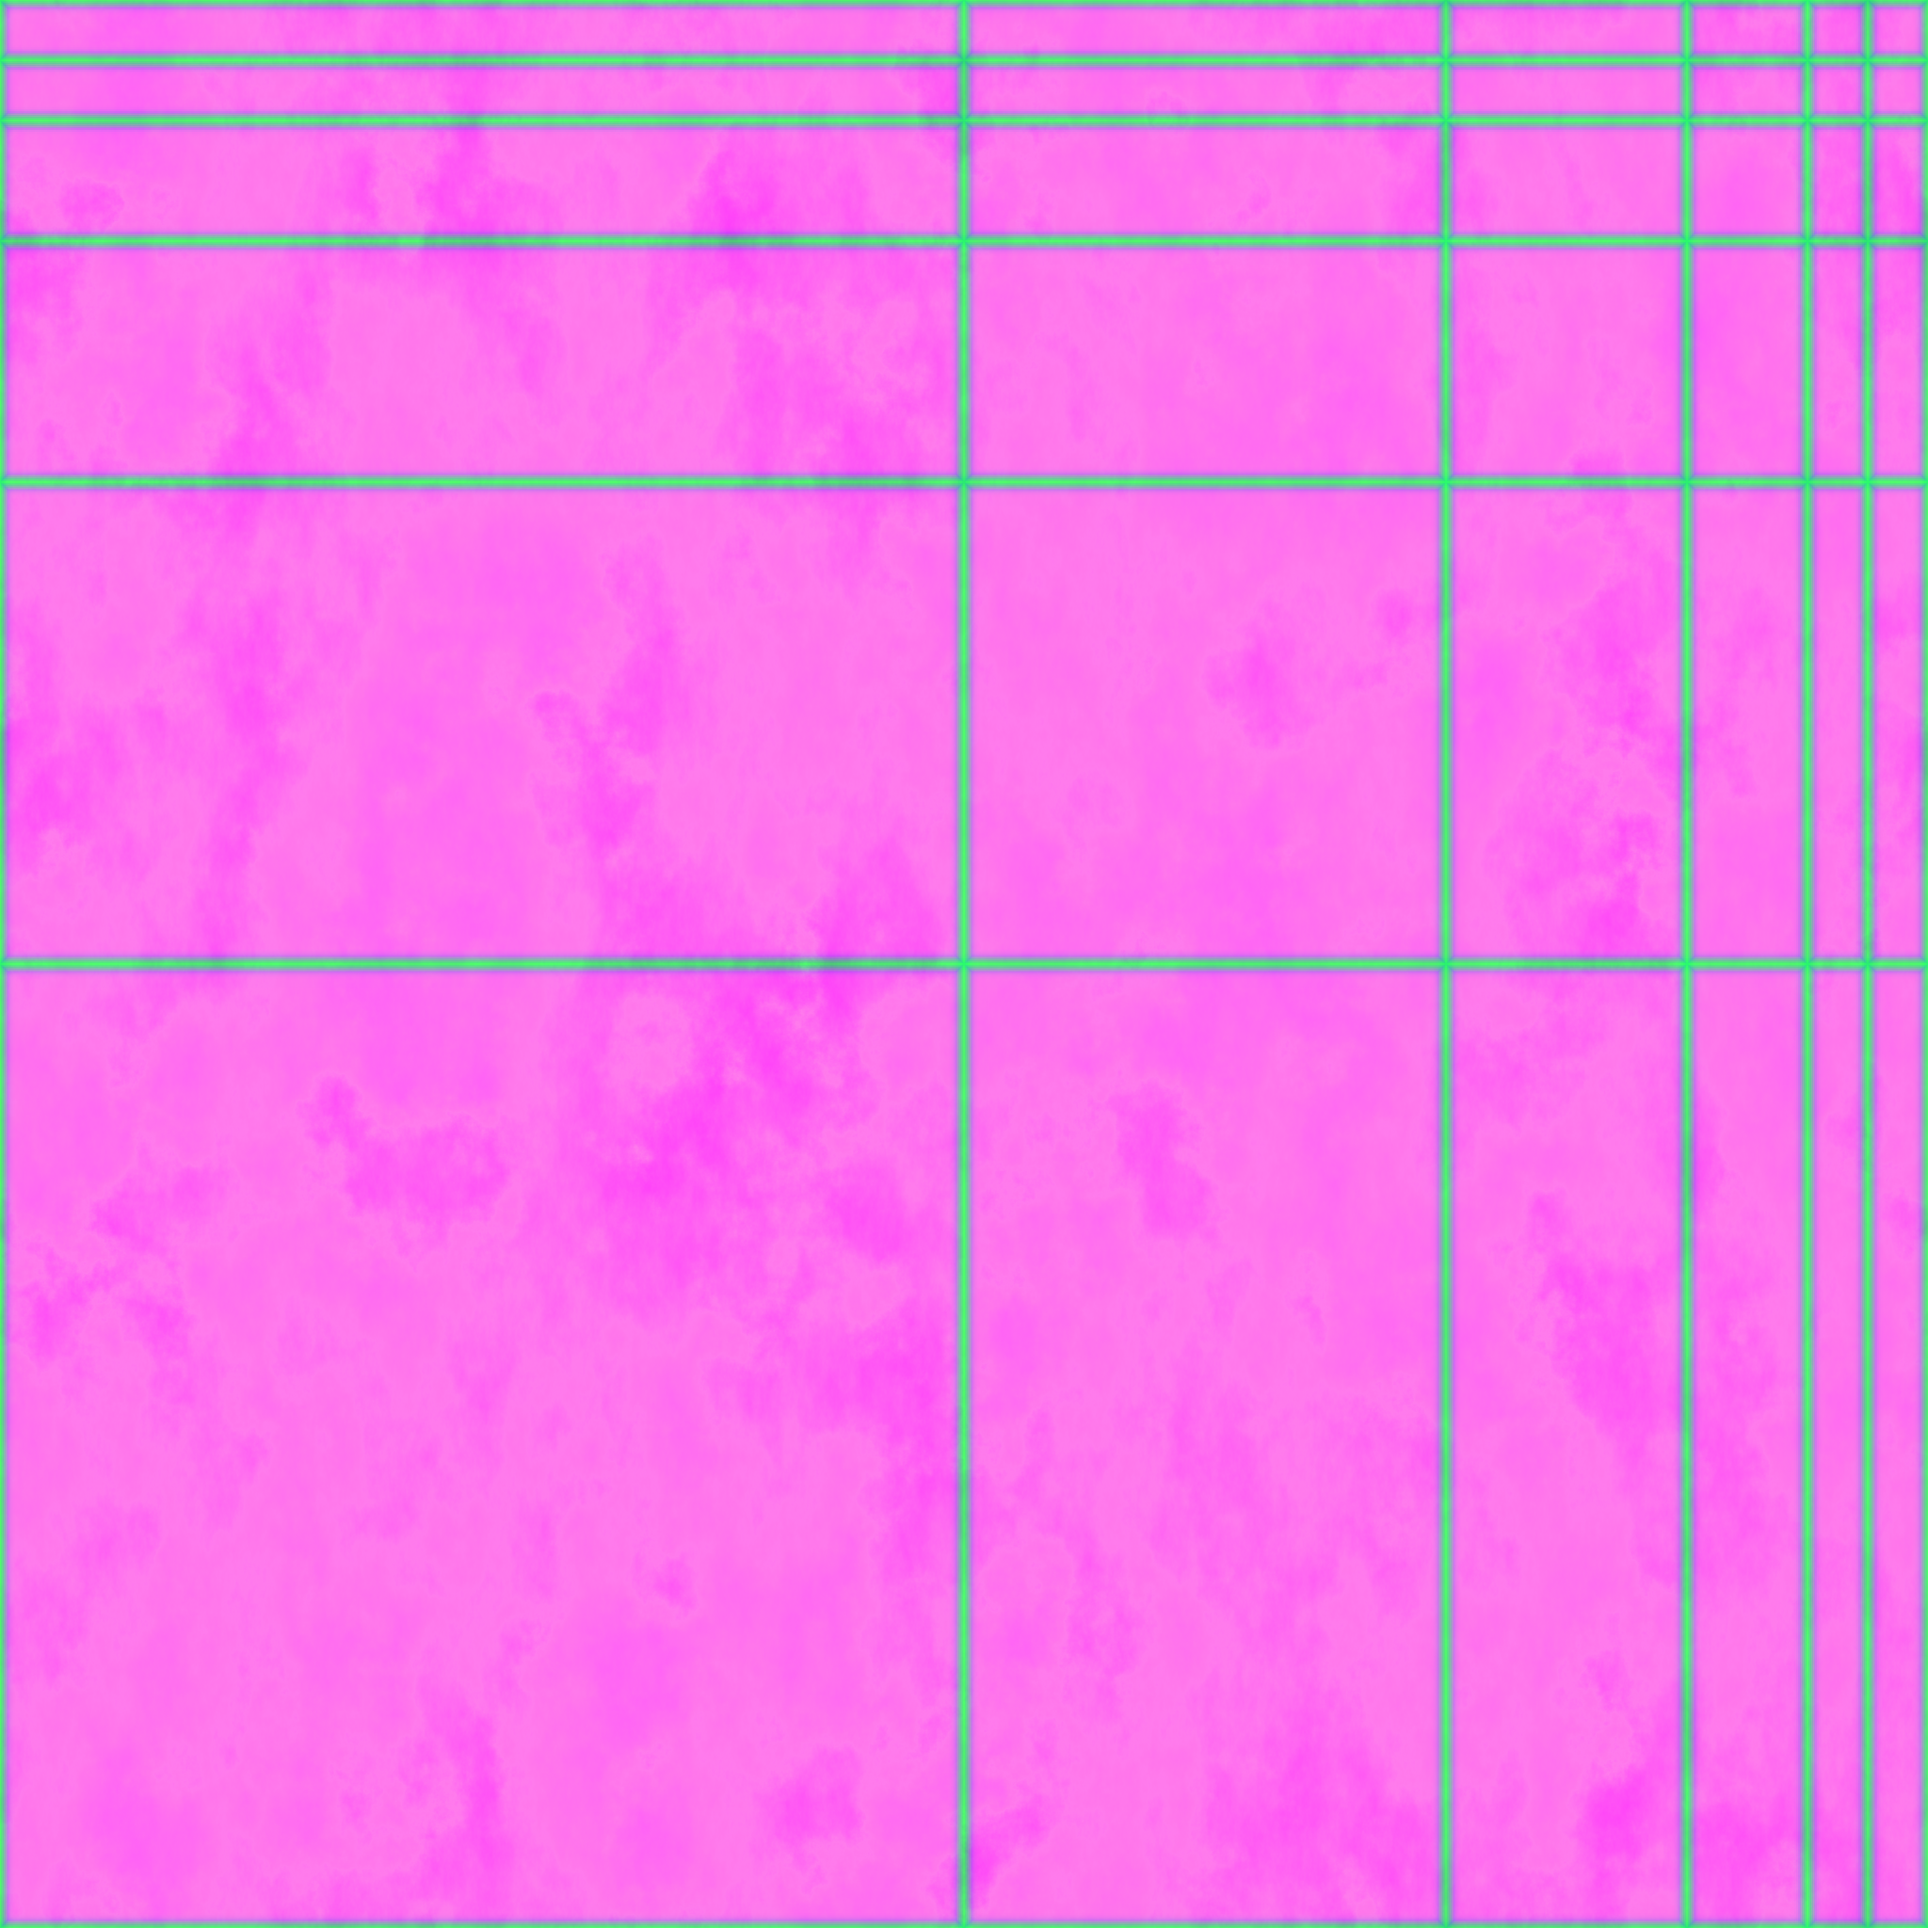
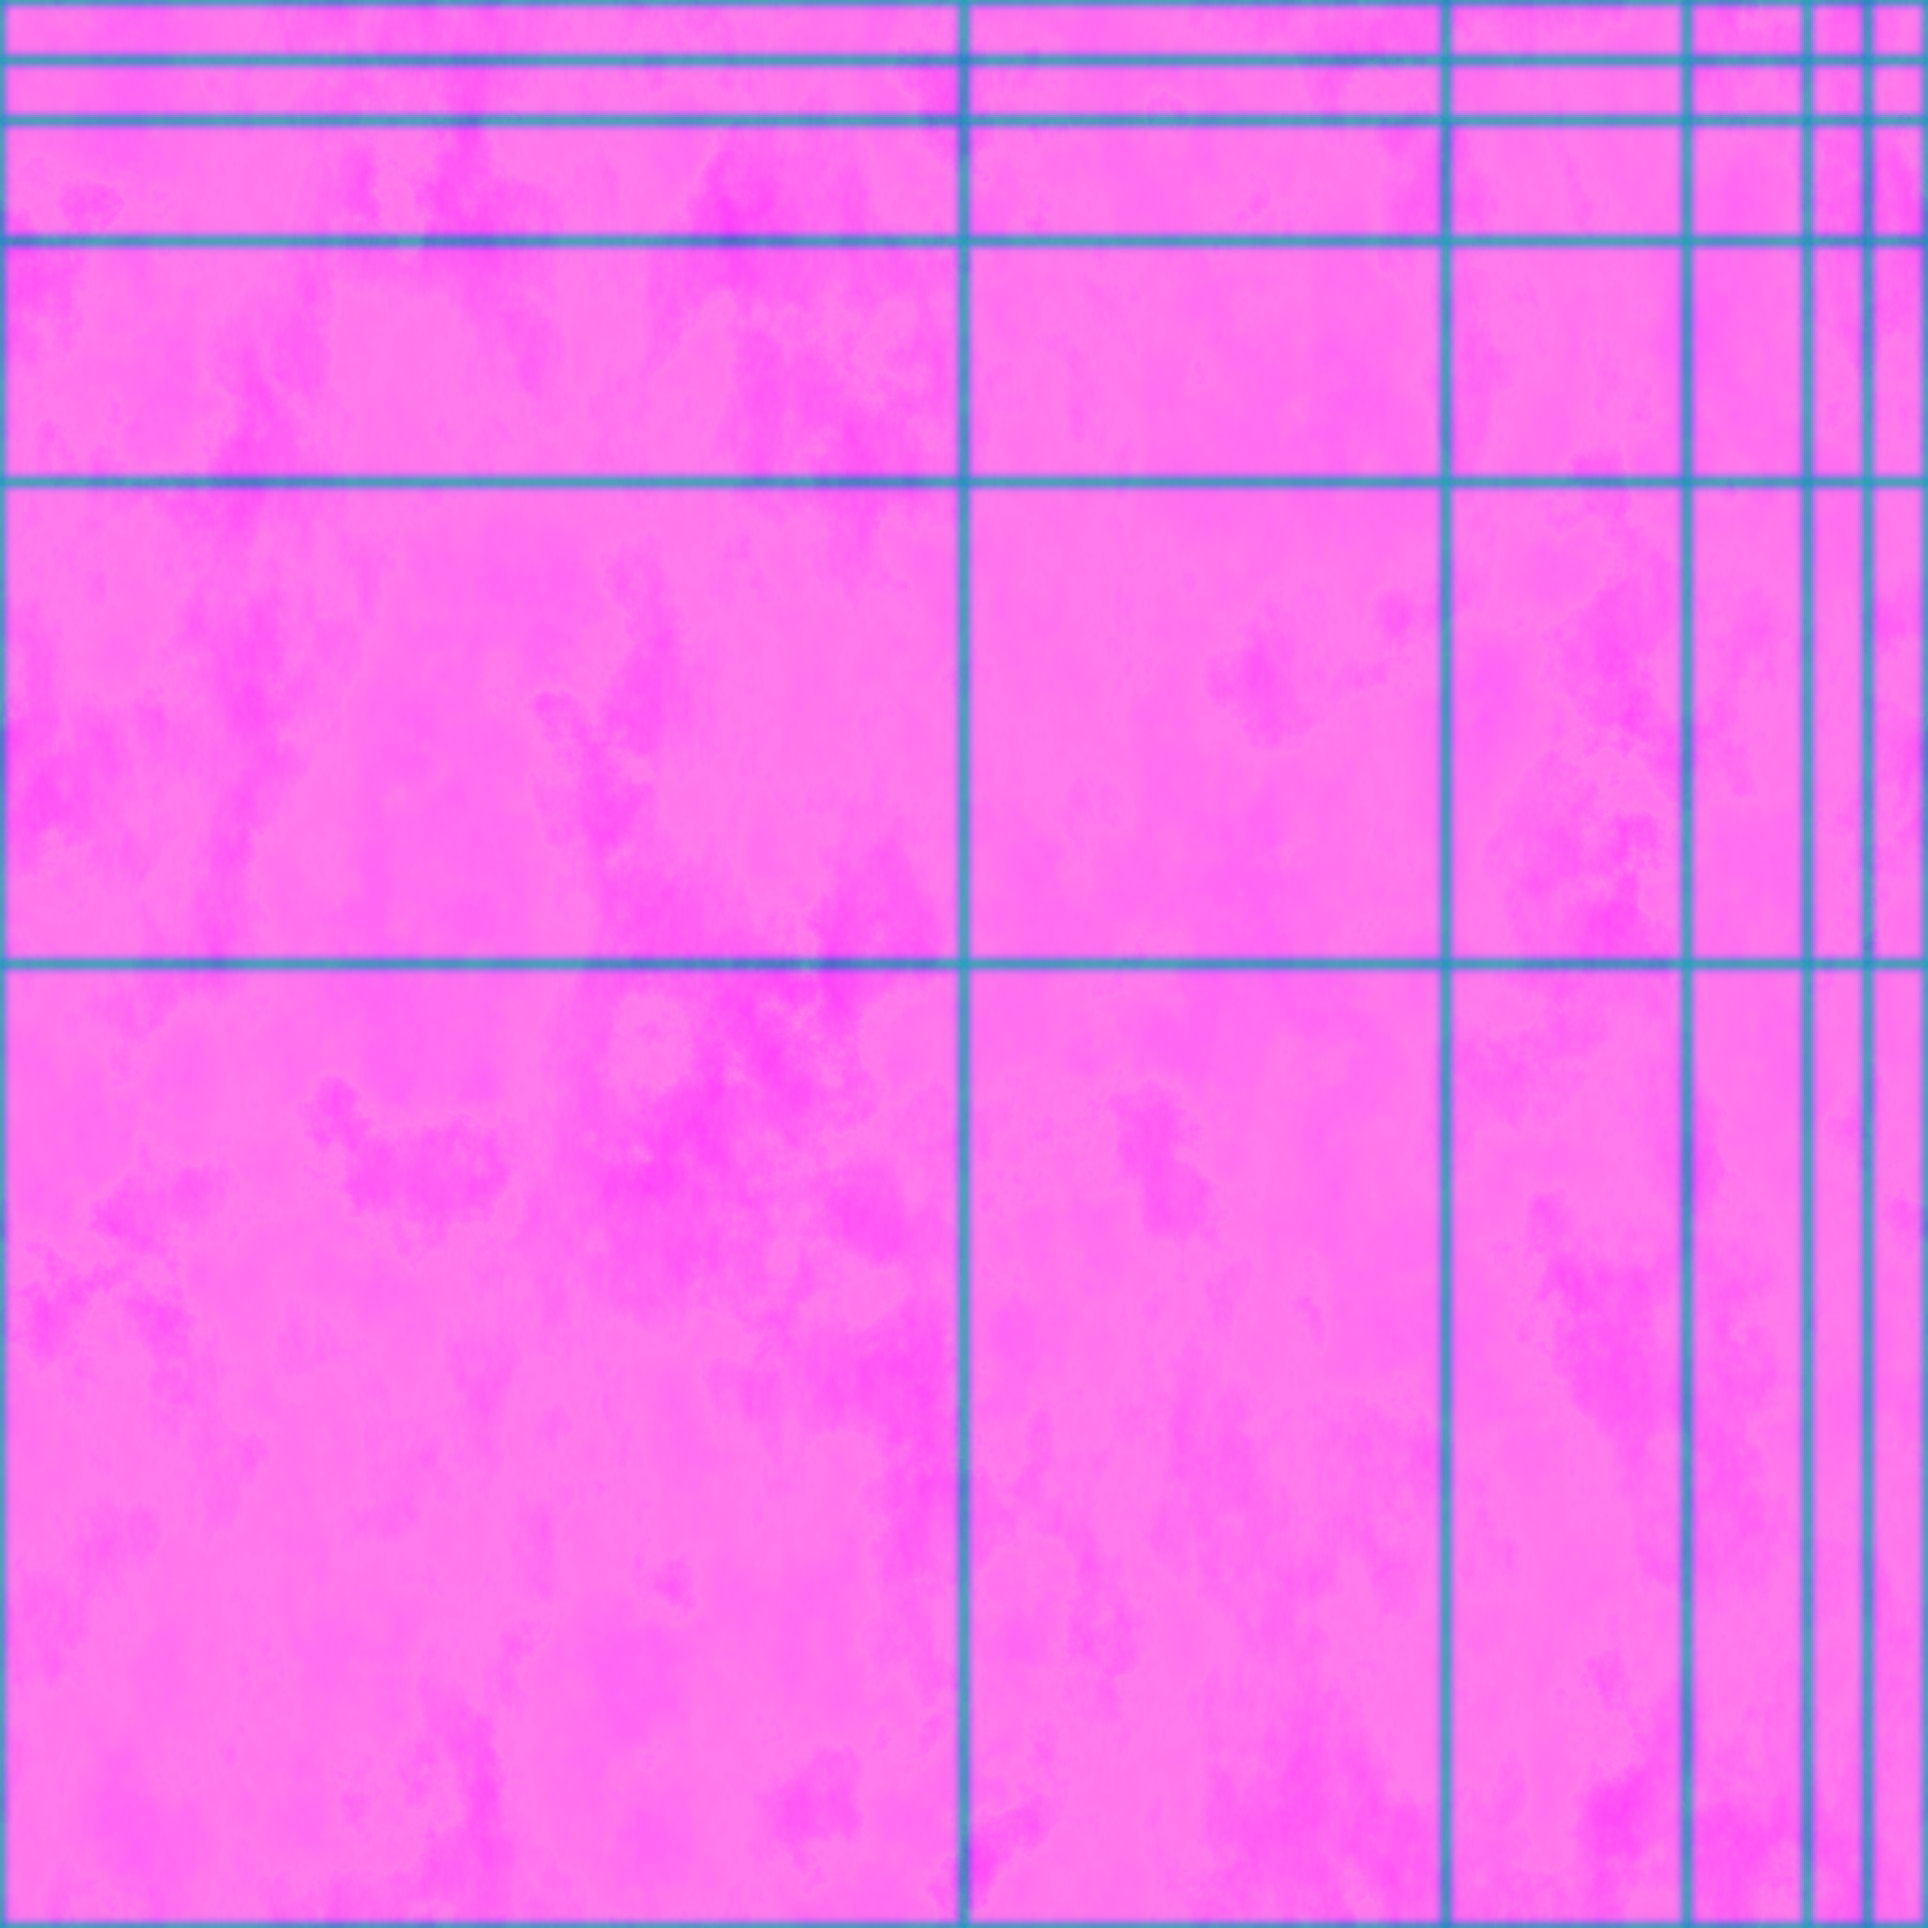
groove adjust

diff --git a/HOTSPOT_MATERIAL.md b/HOTSPOT_MATERIAL.md
@@ -97,7 +97,7 @@ For each source material, start from either the `devil/` or `metal_02/` texture 
 
 1. Load the source albedo.
 2. Duplicate it through a **Hue/Saturation/Value** node.
-3. Reduce **Value** on the duplicate to create a darker version.
+3. Reduce **Value** on the duplicate to create a darker version. The converter uses `0.7`; the earlier `0.43` drew a heavy dark outline.
 4. Blend the original and darkened versions with **Filter Blend**.
 5. Use `panel_mask` as the blend mask.
 6. Reverse the blend inputs or invert the mask if the panel faces become dark instead of the separators.
@@ -111,24 +111,25 @@ Expected result: panel separators are darker, while their edges receive a restra
 Build this node chain:
 
 ```text
-panel_mask → Normal Map
-source_normal ──────────┐
-panel_normal ───────────┴→ Normal Map Blend → final_normal
+panel_mask → Gaussian Blur → Normal Map
+source_normal ──────────────────────────┐
+panel_normal ───────────────────────────┴→ Normal Map Blend → final_normal
 ```
 
-1. Convert `panel_mask` to a normal map as if it were a height map.
-2. Keep the relief subtle; the separators should read as shallow grooves, not deep cuts.
-3. Convert maps to the same orientation before blending.
-4. Blend the panel normal with the source material's normal using **Normal Map Blend**.
-5. Export the result in the OpenGL orientation expected by Godot.
+1. Blur `panel_mask` (**Gaussian Blur**, sigma `3` at 2048) so the groove gets a sloped profile instead of a one-pixel step.
+2. Convert the blurred mask to a normal map as if it were a height map, at a low **strength** (`0.2`).
+3. Keep the relief subtle; the separators should read as shallow grooves, not deep cuts.
+4. Convert maps to the same orientation before blending.
+5. Blend the panel normal with the source material's normal using **Normal Map Blend**.
+6. Export the result in the OpenGL orientation expected by Godot.
 
 ## 6. Modify the ORM texture at panel separators
 
 Use the mask to alter the source ORM only around panel separators:
 
 - Reduce ambient occlusion values to darken the recesses.
-- Increase roughness by approximately `0.5`.
-- Reduce metallic.
+- Increase roughness slightly (the converter uses `+0.15`).
+- Reduce metallic slightly (the converter uses `-0.2`).
 
 Suggested graph:
 
@@ -195,6 +196,20 @@ Inspect the result and rerun Hotspot on smaller face selections when:
 - The chosen atlas rectangle has the wrong aspect ratio
 - Adjacent faces need to remain one panel
 - Visible stretching occurs
+
+### Edge treatment
+
+Tuned on 2026-10-16 by comparing variants on a chamfered test mesh in Blender. Without blur, the mask is a hard step. At normal strength `1.0`, every panel border became a hard, saturated ridge, plus a heavy dark outline and matte edges (roughness `+0.5`). The converter's defaults are now:
+
+| Setting | Node | Old | New |
+| --- | --- | --- | --- |
+| Groove softness | new `edge_blur` (Gaussian Blur, sigma) | none | `3` |
+| Groove relief | `normal_map2` strength | `1.0` | `0.2` |
+| Separator brightness | `adjust_hsv` value | `0.43` | `0.7` |
+| Separator roughness | `math_v3` `d_in2_y` | `+0.5` | `+0.15` |
+| Separator metallic | `math_v3` `d_in2_z` | `-0.5` | `-0.2` |
+
+All except metallic can be changed per run, for example `mm-material convert-hotspot … --param edge_relief=0.4 --param edge_brightness=0.5`. The parameters are `edge_softness`, `edge_relief`, `edge_brightness`, and `edge_roughness`, and `mm-material list` shows their ranges.
 
 ### Scripted via Blender MCP
 

diff --git a/PLAN.md b/PLAN.md
@@ -163,6 +163,7 @@ The remaining work starts with CLI automation; Python does not need to construct
 - [x] Sizes 256, 512, 1024, and 2048.
 - [x] Converting the `devil/` maps reproduces `devil/hotspot/` byte for byte.
 - [x] `check.sh` runs both commands at 256×256.
+- [x] `convert-hotspot` accepts `edge_relief`, `edge_softness`, `edge_brightness`, and `edge_roughness`; softer converter defaults are documented in `HOTSPOT_MATERIAL.md` (Edge treatment), and `devil/hotspot/` was re-exported with them.
 
 Original tasks:
 
